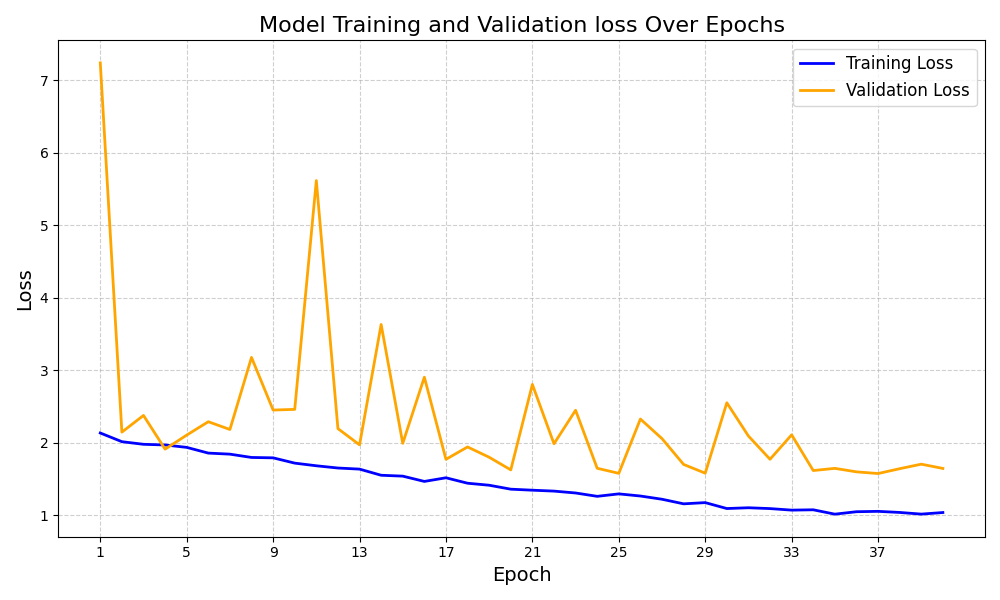
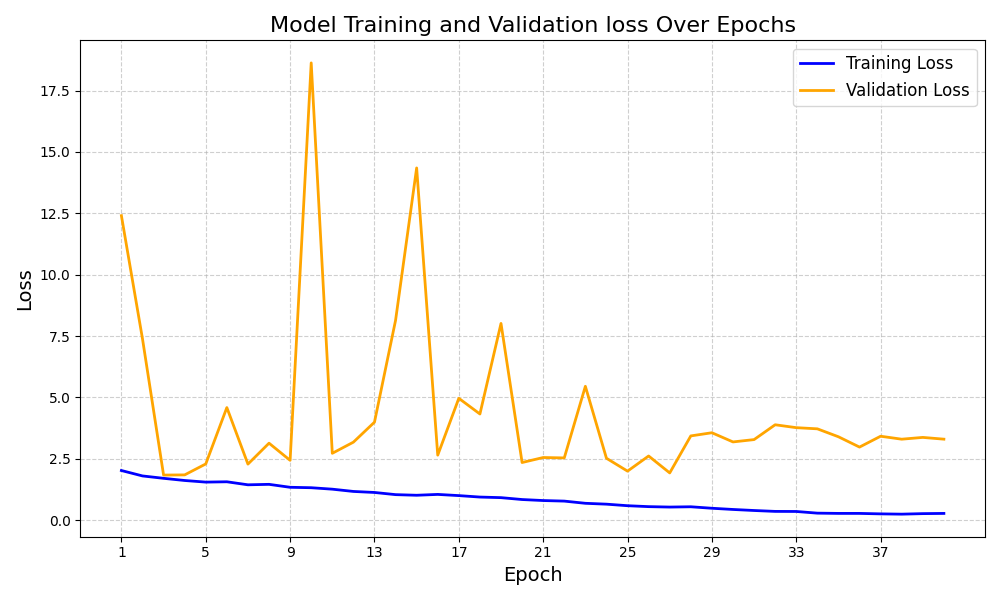
Add class-based loss & turn off data aug.

diff --git a/src/dataset.py b/src/dataset.py
@@ -21,8 +21,8 @@ class RavdessMelDataset(Dataset):
             y = y / maxv
 
         # waveform augmentations (train only)
-        if self.train_mode:
-            y = augment_waveform(y, sr=TARGET_SR)
+        # if self.train_mode:
+        #     y = augment_waveform(y, sr=TARGET_SR)
 
         # pad / crop with random crop in train mode
         y = pad_or_crop(y, sr=TARGET_SR, duration=DURATION_S, train_mode=self.train_mode)
@@ -31,8 +31,8 @@ class RavdessMelDataset(Dataset):
         mel = wav_to_logmel(y, sr=TARGET_SR, n_mels=N_MELS, n_fft=FFT, hop_length=HOP)
 
         # SpecAugment on spectrogram (train only)
-        if self.train_mode:
-            mel = spec_augment(mel, p=0.7)
+        # if self.train_mode:
+        #     mel = spec_augment(mel, p=0.7)
 
         # per-sample standardization
         mean = mel.mean()

diff --git a/training.py b/training.py
@@ -54,7 +54,13 @@ test_loader  = DataLoader(test_ds,  batch_size=BATCH_SIZE, shuffle=False)
 model = EmotionCNN(num_classes).to(device)
 print(model)
 
-criterion = nn.CrossEntropyLoss()
+# compute weights from training data
+class_counts = np.bincount(df_train["y"], minlength=num_classes)
+class_weights = 1.0 / (class_counts + 1e-6)
+class_weights = class_weights / class_weights.sum() * num_classes  # normalize-ish
+
+class_weights_tensor = torch.tensor(class_weights, dtype=torch.float32).to(device)
+criterion = nn.CrossEntropyLoss(weight=class_weights_tensor)
 optimizer = torch.optim.Adam(model.parameters(), lr=LR)
 scheduler = torch.optim.lr_scheduler.CosineAnnealingLR(optimizer, T_max=EPOCHS)
 

diff --git a/README.md b/README.md
@@ -29,25 +29,25 @@ Note: dataset should be downloaded as zip and extracted into `./data` directory
 Plots are saved in `figs/`
 
 # Benchmarking results
-- Test accuracy: **52.70%**
-- Test loss: 1.4440
+- Test accuracy: **53.70%**
+- Test loss: 2.1518
 - Miscellaneous notes:
     - Trained on Macbook Pro M4 with GPU
-    - Per-epoch avg. runtime: 25.57 sec 
+    - Per-epoch avg. runtime: 23.20 sec 
 ```
 Classification report:
               precision    recall  f1-score   support
 
-       angry      0.732     0.750     0.741        40
-        calm      0.471     0.825     0.600        40
-     disgust      0.651     0.700     0.675        40
-     fearful      0.484     0.375     0.423        40
-       happy      0.303     0.250     0.274        40
-     neutral      0.000     0.000     0.000        20
-         sad      0.289     0.275     0.282        40
-   surprised      0.705     0.775     0.738        40
+       angry      0.610     0.625     0.617        40
+        calm      0.735     0.625     0.676        40
+     disgust      0.492     0.725     0.586        40
+     fearful      0.480     0.300     0.369        40
+       happy      0.500     0.325     0.394        40
+     neutral      0.333     0.150     0.207        20
+         sad      0.377     0.575     0.455        40
+   surprised      0.689     0.775     0.729        40
 
-    accuracy                          0.527       300
-   macro avg      0.454     0.494     0.467       300
-weighted avg      0.485     0.527     0.498       300
+    accuracy                          0.537       300
+   macro avg      0.527     0.512     0.504       300
+weighted avg      0.540     0.537     0.524       300
 ```
